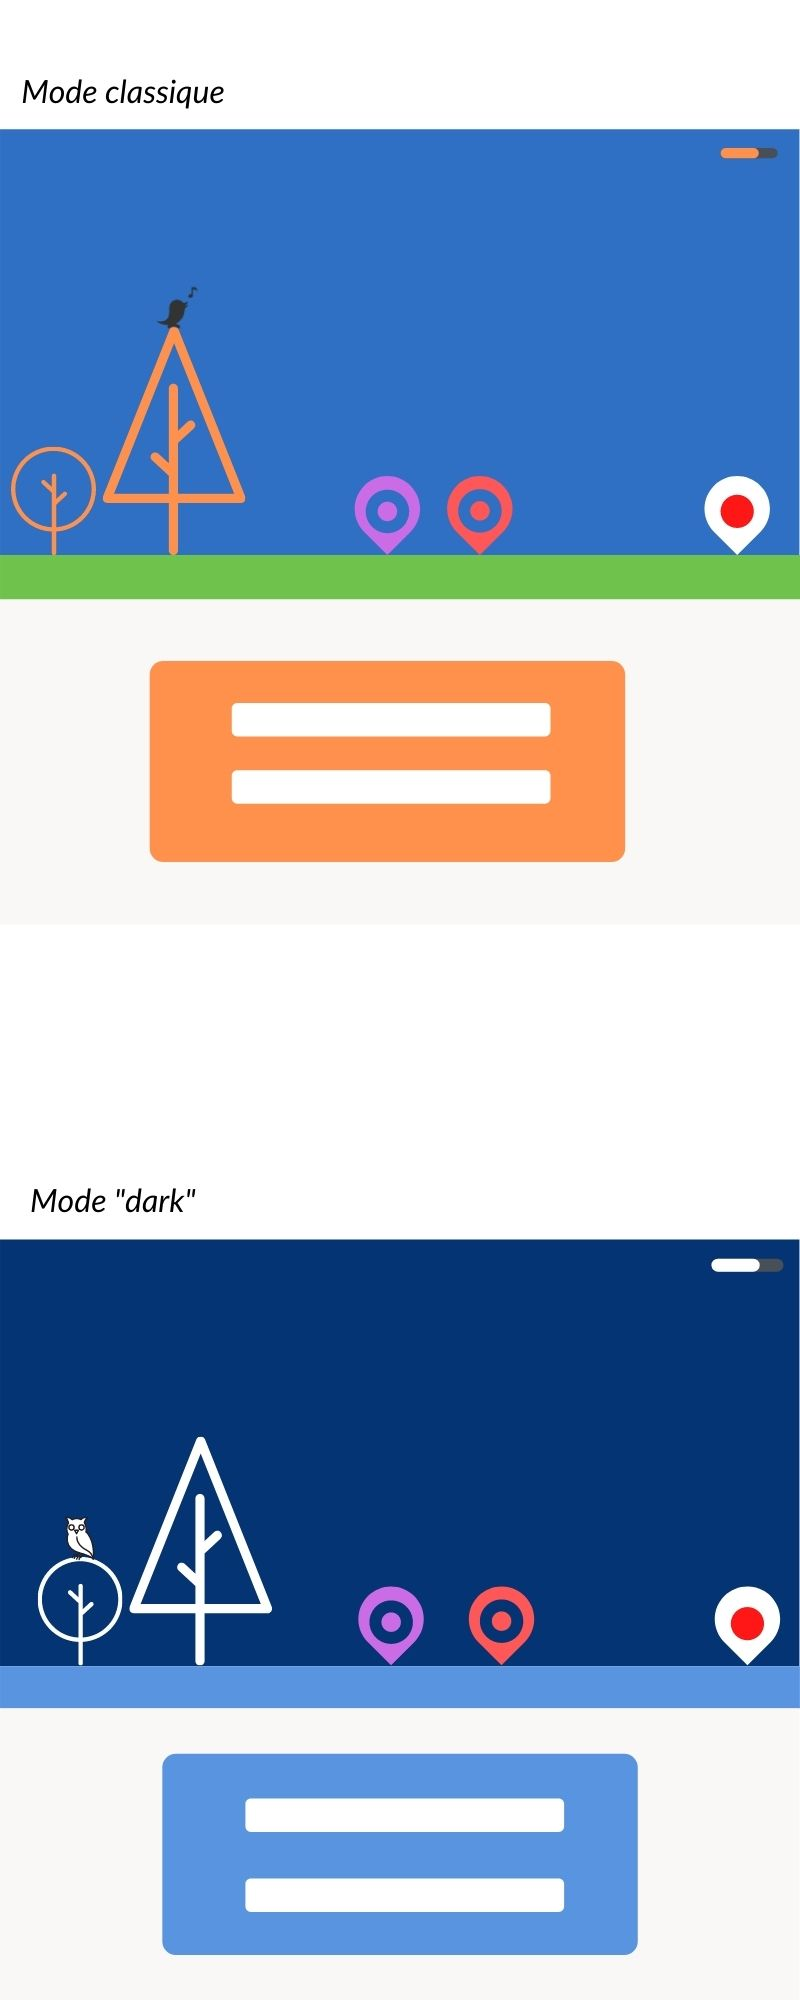
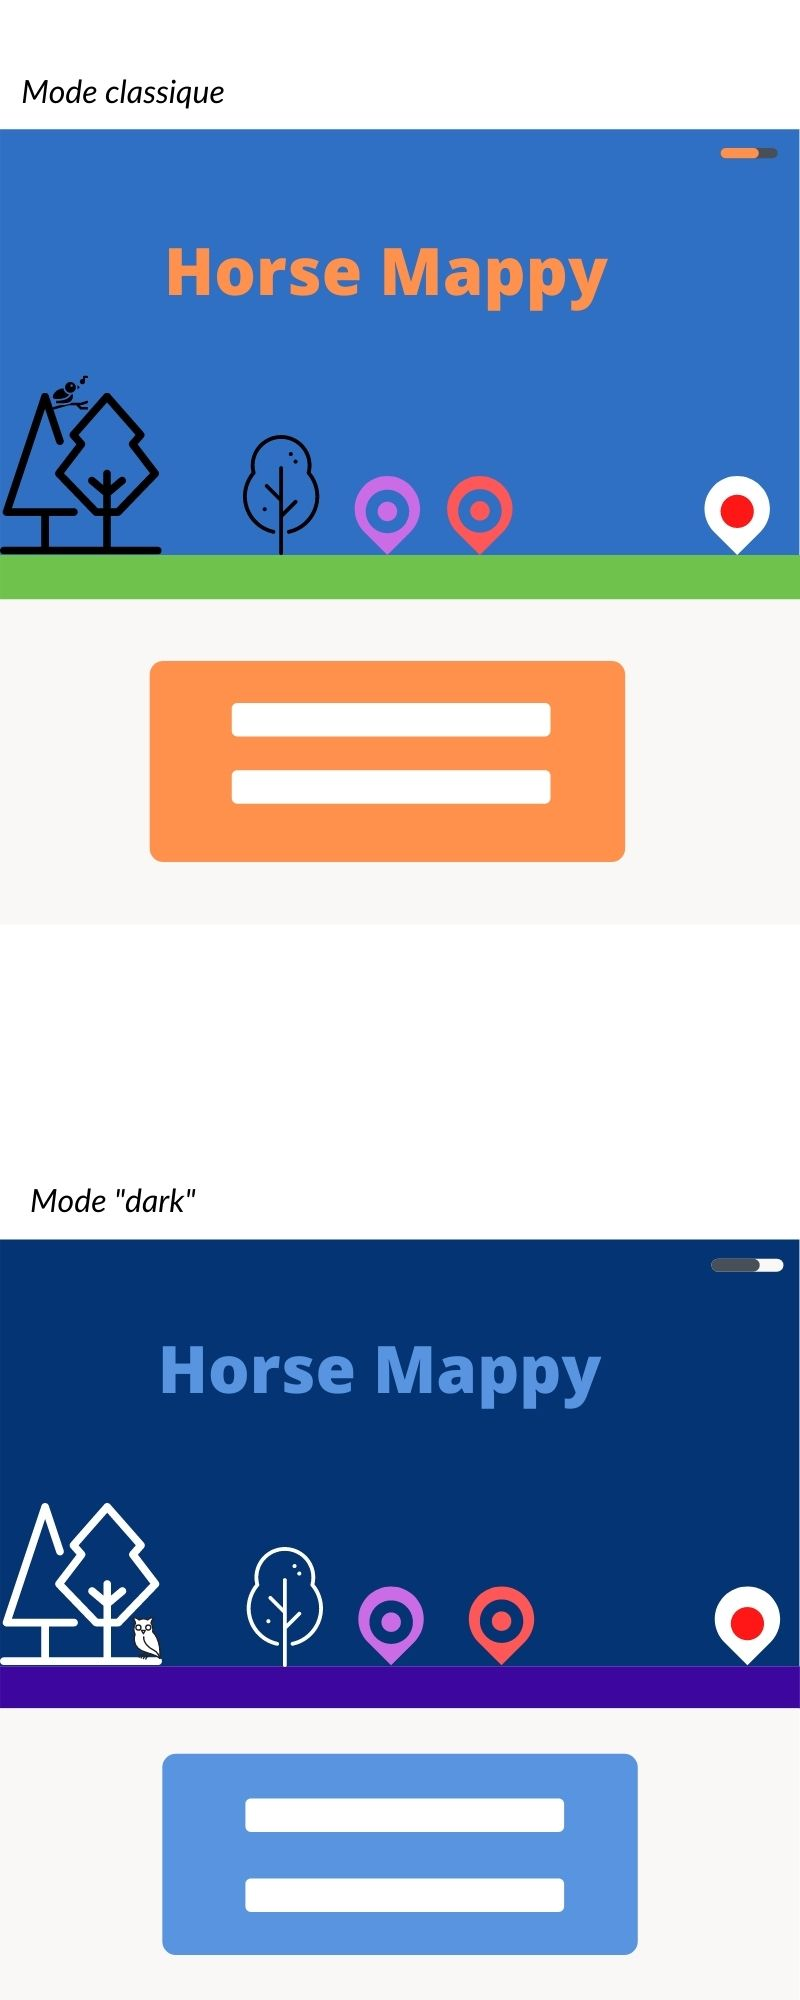
Mise à jour de la documentation, et du fichier choixMode.js (modification couleur).

diff --git a/FRONT/js/choixMode.js b/FRONT/js/choixMode.js
@@ -38,7 +38,7 @@ const modeJour = function() {
 
 const modeDark = function() {
     fondBleu.style.backgroundColor = '#043474';
-    fondVert.style.backgroundColor = '#480ABB';
+    fondVert.style.backgroundColor = '#3C069F';
     fondFormulaire.style.backgroundColor = '#5994e1';
     titreAppli.style.color = '#5994e1';
     iconeMode.setAttribute("src", "images/lune.png");
